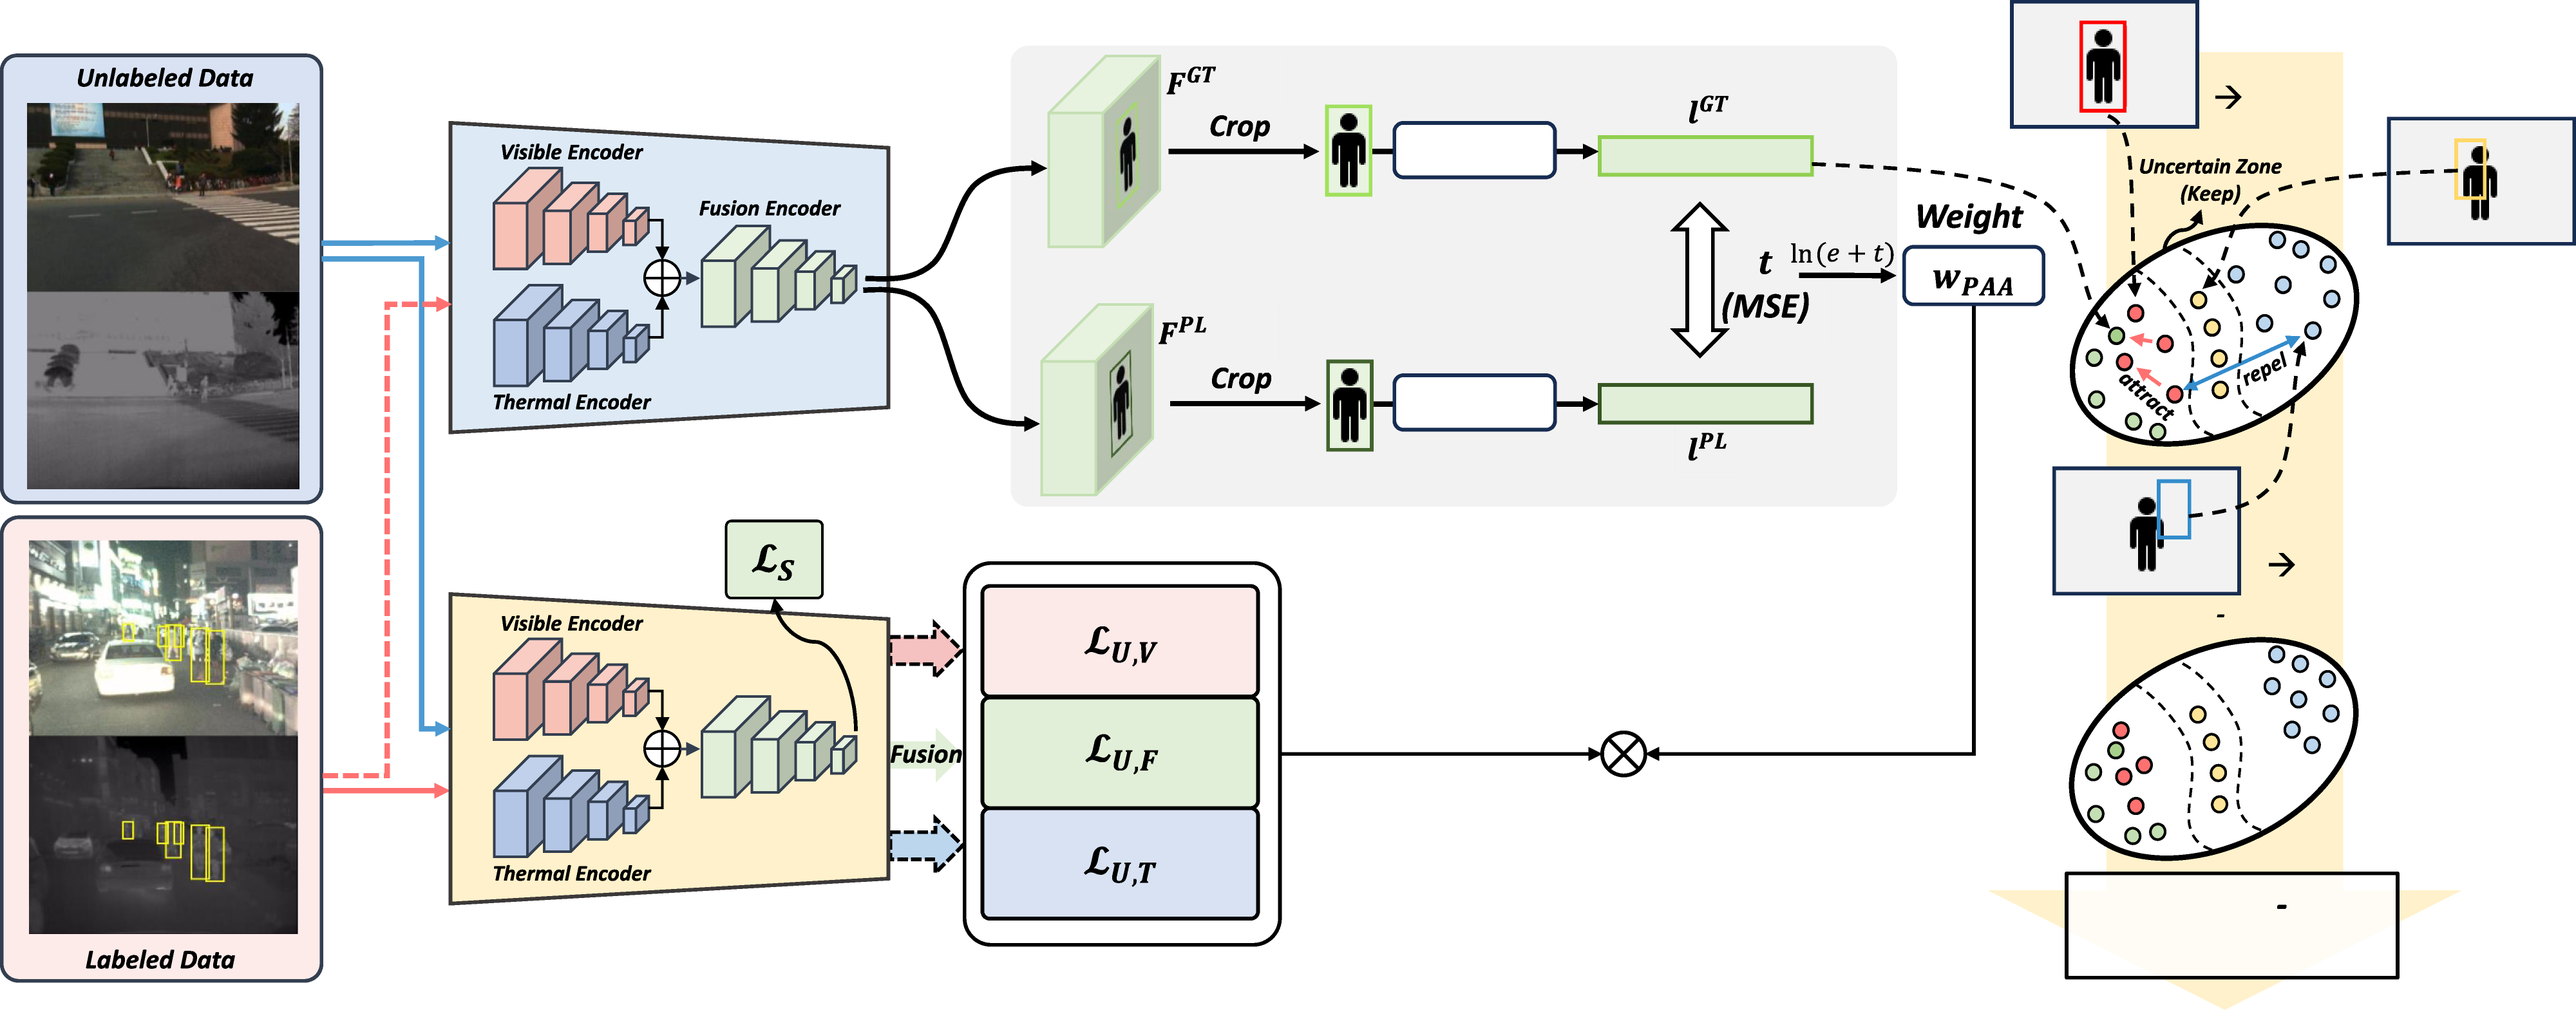
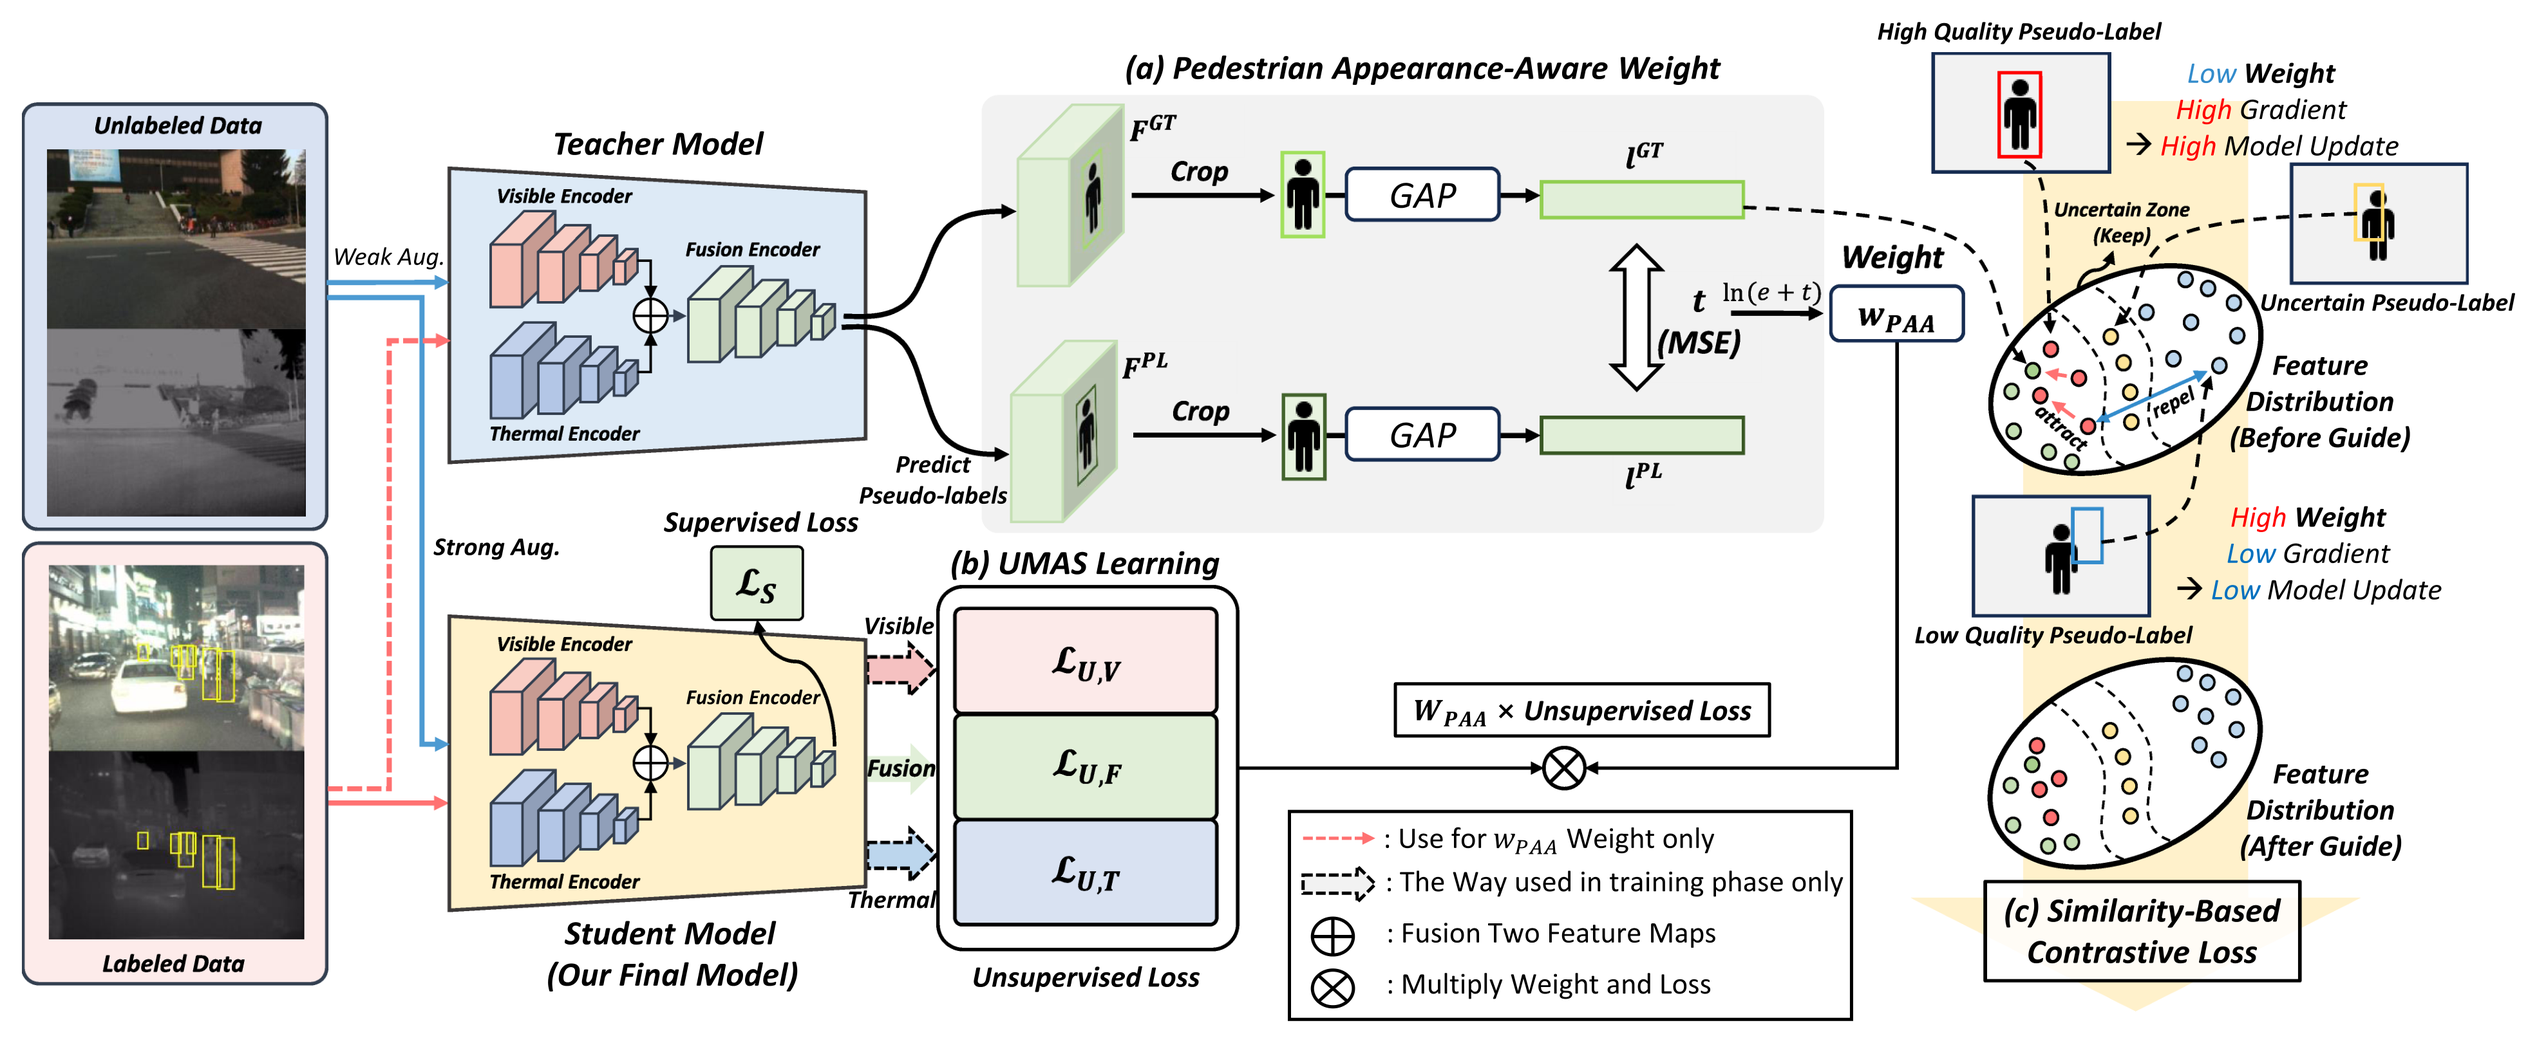
Re-export the paper figures with their text
The figures were extracted as the embedded raster layer only, which dropped
every label because the text is vector. They are now rendered from the page at
600 dpi over the full extent of the figure, and the data selection figure is
shown in the README.

Claude-Session: https://claude.ai/code/session_01YcJ9zWeZc9eEeGUu2vPaNQ

Changed region(s): [[0.0, 0.0, 1.0, 0.9994]]

diff --git a/README.md b/README.md
@@ -91,6 +91,8 @@ Please place your files according to the directory structure below.
 
 Our data selection (Sec. III-D) encodes every training scene with a pretrained ResNet-50, clusters the scenes with K-means, and samples uniformly by distance inside each cluster, so that a small labeled subset still covers diverse scenes.
 
+<div align=center> <img src="docs/data_selection.png" width="600"/> </div>
+
 ```bash
 python data_selection.py
 ```
